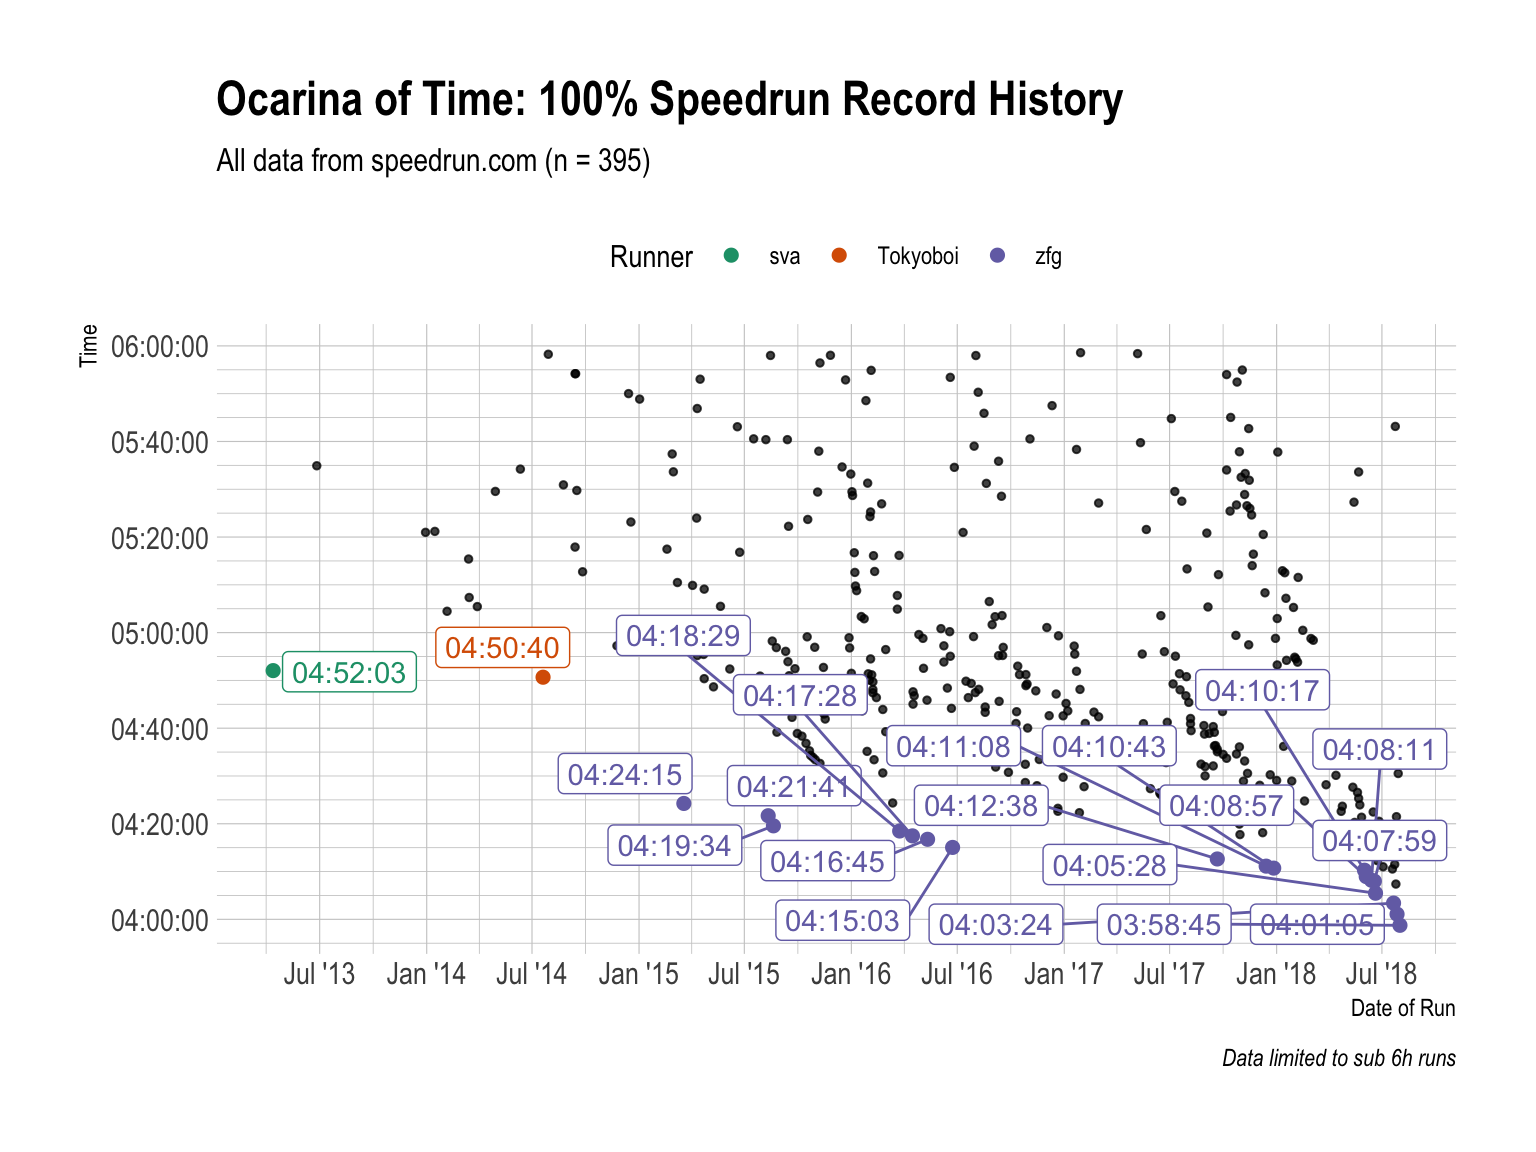
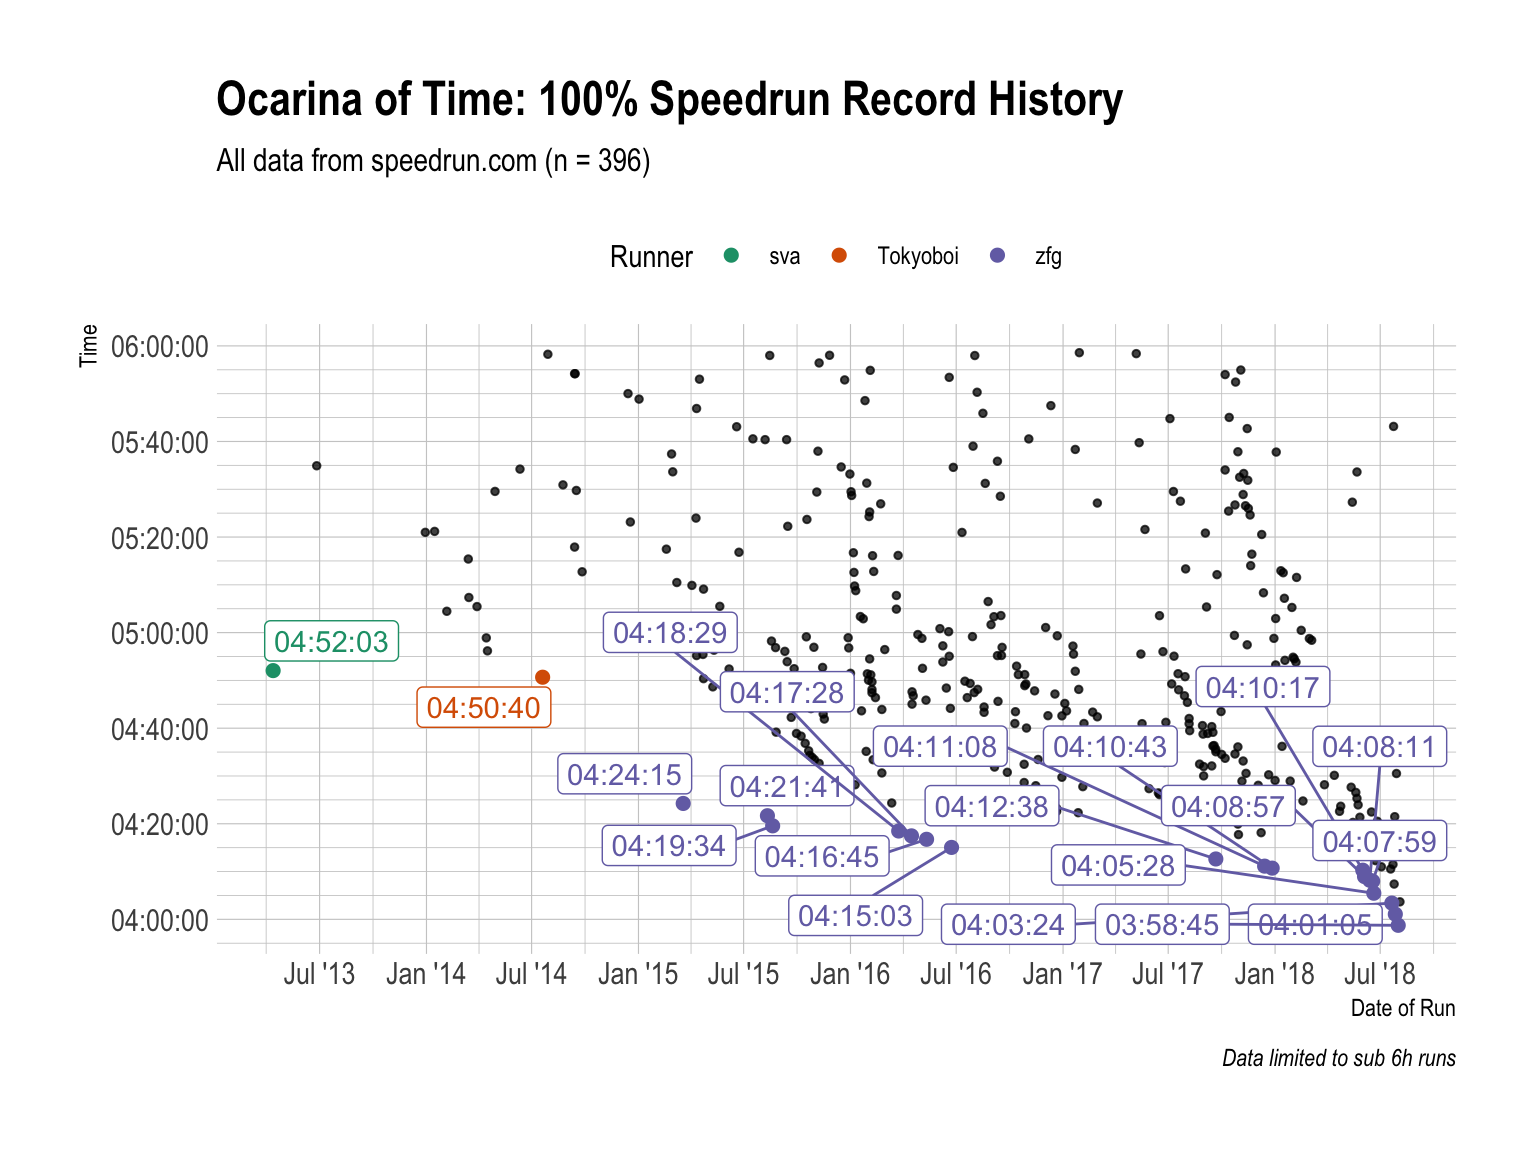
Rebuild everything

diff --git a/docs/articles/ocarina-of-time-100-.html b/docs/articles/ocarina-of-time-100-.html
@@ -82,7 +82,7 @@
       <h1>Ocarina of Time 100%</h1>
                         <h4 class="author">Lukas Burk</h4>
             
-            <h4 class="date">2018-08-02</h4>
+            <h4 class="date">2018-08-04</h4>
       
       <small class="dont-index">Source: <a href="https://github.com/jemus42/speedrunr/blob/master/vignettes/ocarina-of-time-100-.Rmd"><code>vignettes/ocarina-of-time-100-.Rmd</code></a></small>
       <div class="hidden name"><code>ocarina-of-time-100-.Rmd</code></div>
@@ -134,26 +134,26 @@
 <a class="sourceLine" id="cb3-4" data-line-number="4">oot100 &lt;-<span class="st"> </span><span class="kw"><a href="../reference/get_runs.html">get_runs</a></span>(<span class="dt">game =</span> <span class="st">"j1l9qz1g"</span>, <span class="dt">category =</span> <span class="st">"q255jw2o"</span>, <span class="dt">max =</span> <span class="ot">Inf</span>)</a></code></pre></div>
 <p>Note that I’m useing <code>max = Inf</code> to make sure I get <em>all</em> the runs.</p>
 <div class="sourceCode" id="cb4"><pre class="sourceCode r"><code class="sourceCode r"><a class="sourceLine" id="cb4-1" data-line-number="1"><span class="kw">str</span>(oot100)</a>
-<a class="sourceLine" id="cb4-2" data-line-number="2"><span class="co">#&gt; Classes 'tbl_df', 'tbl' and 'data.frame':    503 obs. of  22 variables:</span></a>
-<a class="sourceLine" id="cb4-3" data-line-number="3"><span class="co">#&gt;  $ id             : chr  "m3o52kwm" "y892o4dm" "zq3wddxy" "zg7we9jz" ...</span></a>
-<a class="sourceLine" id="cb4-4" data-line-number="4"><span class="co">#&gt;  $ weblink        : chr  "https://www.speedrun.com/oot/run/m3o52kwm" "https://www.speedrun.com/oot/run/y892o4dm" "https://www.speedrun.com/oot/run/zq3wddxy" "https://www.speedrun.com/oot/run/zg7we9jz" ...</span></a>
+<a class="sourceLine" id="cb4-2" data-line-number="2"><span class="co">#&gt; Classes 'tbl_df', 'tbl' and 'data.frame':    504 obs. of  22 variables:</span></a>
+<a class="sourceLine" id="cb4-3" data-line-number="3"><span class="co">#&gt;  $ id             : chr  "y2q5l35y" "m3o52kwm" "y892o4dm" "zq3wddxy" ...</span></a>
+<a class="sourceLine" id="cb4-4" data-line-number="4"><span class="co">#&gt;  $ weblink        : chr  "https://www.speedrun.com/oot/run/y2q5l35y" "https://www.speedrun.com/oot/run/m3o52kwm" "https://www.speedrun.com/oot/run/y892o4dm" "https://www.speedrun.com/oot/run/zq3wddxy" ...</span></a>
 <a class="sourceLine" id="cb4-5" data-line-number="5"><span class="co">#&gt;  $ game           : chr  "j1l9qz1g" "j1l9qz1g" "j1l9qz1g" "j1l9qz1g" ...</span></a>
 <a class="sourceLine" id="cb4-6" data-line-number="6"><span class="co">#&gt;  $ level          : logi  NA NA NA NA NA NA ...</span></a>
 <a class="sourceLine" id="cb4-7" data-line-number="7"><span class="co">#&gt;  $ category       : chr  "q255jw2o" "q255jw2o" "q255jw2o" "q255jw2o" ...</span></a>
-<a class="sourceLine" id="cb4-8" data-line-number="8"><span class="co">#&gt;  $ videos         : chr  "https://www.youtube.com/watch?v=N8vs_cCeekM" "https://youtu.be/tgb6vU3KAgE" "https://youtu.be/VFZh_V_zatU" "https://youtu.be/TpstTIj7y-A" ...</span></a>
+<a class="sourceLine" id="cb4-8" data-line-number="8"><span class="co">#&gt;  $ videos         : chr  "https://www.youtube.com/watch?v=KC5nDHK9ipY" "https://www.youtube.com/watch?v=N8vs_cCeekM" "https://youtu.be/tgb6vU3KAgE" "https://youtu.be/VFZh_V_zatU" ...</span></a>
 <a class="sourceLine" id="cb4-9" data-line-number="9"><span class="co">#&gt;  $ status         : chr  "verified" "verified" "verified" "verified" ...</span></a>
-<a class="sourceLine" id="cb4-10" data-line-number="10"><span class="co">#&gt;  $ comment        : chr  "1st try dampe" "6th dampe, decent fishing" "Second run on new equip dupe route, and I got pb twice in the day!" "This run was great until fishing, lost 2 minutes to fishing, got 3rd try Dampe, and then Adult 2 onward was a d"| __truncated__ ...</span></a>
-<a class="sourceLine" id="cb4-11" data-line-number="11"><span class="co">#&gt;  $ player_id      : chr  "e8e5v680" "zxz9r448" "68wq9z8g" "1xym2kmx" ...</span></a>
-<a class="sourceLine" id="cb4-12" data-line-number="12"><span class="co">#&gt;  $ player_url     : chr  "https://www.speedrun.com/user/zfg" "https://www.speedrun.com/user/Fig02" "https://www.speedrun.com/user/Cma" "https://www.speedrun.com/user/MasterMonk1991" ...</span></a>
-<a class="sourceLine" id="cb4-13" data-line-number="13"><span class="co">#&gt;  $ player_name    : chr  "zfg" "Fig02" "Cma" "MasterMonk1991" ...</span></a>
+<a class="sourceLine" id="cb4-10" data-line-number="10"><span class="co">#&gt;  $ comment        : chr  "Video footage was cut during KD's fight, I messed up with OBS while trying to stop my \"footage only\" recordin"| __truncated__ "1st try dampe" "6th dampe, decent fishing" "Second run on new equip dupe route, and I got pb twice in the day!" ...</span></a>
+<a class="sourceLine" id="cb4-11" data-line-number="11"><span class="co">#&gt;  $ player_id      : chr  "v819rrxp" "e8e5v680" "zxz9r448" "68wq9z8g" ...</span></a>
+<a class="sourceLine" id="cb4-12" data-line-number="12"><span class="co">#&gt;  $ player_url     : chr  "https://www.speedrun.com/user/Marco" "https://www.speedrun.com/user/zfg" "https://www.speedrun.com/user/Fig02" "https://www.speedrun.com/user/Cma" ...</span></a>
+<a class="sourceLine" id="cb4-13" data-line-number="13"><span class="co">#&gt;  $ player_name    : chr  "Marco" "zfg" "Fig02" "Cma" ...</span></a>
 <a class="sourceLine" id="cb4-14" data-line-number="14"><span class="co">#&gt;  $ player_role    : chr  "user" "user" "user" "user" ...</span></a>
-<a class="sourceLine" id="cb4-15" data-line-number="15"><span class="co">#&gt;  $ player_signup  : POSIXct, format: "2015-02-17 03:55:57" "2016-02-04 09:35:14" ...</span></a>
-<a class="sourceLine" id="cb4-16" data-line-number="16"><span class="co">#&gt;  $ date           : Date, format: "2018-08-01" "2018-07-31" ...</span></a>
-<a class="sourceLine" id="cb4-17" data-line-number="17"><span class="co">#&gt;  $ submitted      : POSIXct, format: "2018-08-02 02:15:56" "2018-08-01 04:07:29" ...</span></a>
-<a class="sourceLine" id="cb4-18" data-line-number="18"><span class="co">#&gt;  $ time_primary   : int  14325 15412 16231 15471 14465 15689 15586 14843 20589 15090 ...</span></a>
-<a class="sourceLine" id="cb4-19" data-line-number="19"><span class="co">#&gt;  $ time_realtime  : int  14325 15412 16231 15471 14465 15689 15586 14843 20589 15090 ...</span></a>
+<a class="sourceLine" id="cb4-15" data-line-number="15"><span class="co">#&gt;  $ player_signup  : POSIXct, format: "2015-02-17 18:25:39" "2015-02-17 03:55:57" ...</span></a>
+<a class="sourceLine" id="cb4-16" data-line-number="16"><span class="co">#&gt;  $ date           : Date, format: "2018-08-04" "2018-08-01" ...</span></a>
+<a class="sourceLine" id="cb4-17" data-line-number="17"><span class="co">#&gt;  $ submitted      : POSIXct, format: "2018-08-04 04:03:15" "2018-08-02 02:15:56" ...</span></a>
+<a class="sourceLine" id="cb4-18" data-line-number="18"><span class="co">#&gt;  $ time_primary   : int  14620 14325 15412 16231 15471 14465 15689 15586 14843 20589 ...</span></a>
+<a class="sourceLine" id="cb4-19" data-line-number="19"><span class="co">#&gt;  $ time_realtime  : int  14620 14325 15412 16231 15471 14465 15689 15586 14843 20589 ...</span></a>
 <a class="sourceLine" id="cb4-20" data-line-number="20"><span class="co">#&gt;  $ time_ingame    : int  0 0 0 0 0 0 0 0 0 0 ...</span></a>
-<a class="sourceLine" id="cb4-21" data-line-number="21"><span class="co">#&gt;  $ time_hms       : 'hms' num  03:58:45 04:16:52 04:30:31 04:17:51 ...</span></a>
+<a class="sourceLine" id="cb4-21" data-line-number="21"><span class="co">#&gt;  $ time_hms       : 'hms' num  04:03:40 03:58:45 04:16:52 04:30:31 ...</span></a>
 <a class="sourceLine" id="cb4-22" data-line-number="22"><span class="co">#&gt;   ..- attr(*, "units")= chr "secs"</span></a>
 <a class="sourceLine" id="cb4-23" data-line-number="23"><span class="co">#&gt;  $ system_platform: chr  "nzelreqp" "nzelreqp" "nzelreqp" "nzelreqp" ...</span></a>
 <a class="sourceLine" id="cb4-24" data-line-number="24"><span class="co">#&gt;  $ system_emulated: logi  FALSE FALSE FALSE FALSE FALSE FALSE ...</span></a>
@@ -203,51 +203,51 @@
 <td align="left">JPN / NTSC</td>
 </tr>
 <tr class="even">
+<td align="left">04:03:40</td>
+<td align="left">Marco</td>
+<td align="left">2018-08-04</td>
+<td align="left">Wii Virtual Console</td>
+<td align="left">JPN / NTSC</td>
+</tr>
+<tr class="odd">
 <td align="left">04:05:28</td>
 <td align="left">zfg</td>
 <td align="left">2018-06-20</td>
 <td align="left">Wii Virtual Console</td>
 <td align="left">JPN / NTSC</td>
 </tr>
-<tr class="odd">
+<tr class="even">
 <td align="left">04:07:23</td>
 <td align="left">Marco</td>
 <td align="left">2018-07-25</td>
 <td align="left">Wii Virtual Console</td>
 <td align="left">JPN / NTSC</td>
 </tr>
-<tr class="even">
+<tr class="odd">
 <td align="left">04:07:59</td>
 <td align="left">zfg</td>
 <td align="left">2018-06-18</td>
 <td align="left">Wii Virtual Console</td>
 <td align="left">JPN / NTSC</td>
 </tr>
-<tr class="odd">
+<tr class="even">
 <td align="left">04:08:11</td>
 <td align="left">zfg</td>
 <td align="left">2018-06-13</td>
 <td align="left">Wii Virtual Console</td>
 <td align="left">JPN / NTSC</td>
 </tr>
-<tr class="even">
+<tr class="odd">
 <td align="left">04:08:57</td>
 <td align="left">zfg</td>
 <td align="left">2018-06-04</td>
 <td align="left">Wii Virtual Console</td>
 <td align="left">JPN / NTSC</td>
 </tr>
-<tr class="odd">
+<tr class="even">
 <td align="left">04:10:17</td>
 <td align="left">zfg</td>
 <td align="left">2018-06-01</td>
-<td align="left">Wii Virtual Console</td>
-<td align="left">JPN / NTSC</td>
-</tr>
-<tr class="even">
-<td align="left">04:10:32</td>
-<td align="left">Marco</td>
-<td align="left">2018-07-19</td>
 <td align="left">Wii Virtual Console</td>
 <td align="left">JPN / NTSC</td>
 </tr>

diff --git a/docs/index.html b/docs/index.html
@@ -345,89 +345,89 @@ Let’s get started:</p>
 <td align="left"><a href="https://www.speedrun.com/user/zfg" class="uri">https://www.speedrun.com/user/zfg</a></td>
 </tr>
 <tr class="even">
+<td align="left">2018-08-04 04:03:15</td>
+<td align="left">04:03:40</td>
+<td align="left"><a href="https://www.speedrun.com/user/Marco" class="uri">https://www.speedrun.com/user/Marco</a></td>
+</tr>
+<tr class="odd">
 <td align="left">2018-06-21 02:28:51</td>
 <td align="left">04:05:28</td>
 <td align="left"><a href="https://www.speedrun.com/user/zfg" class="uri">https://www.speedrun.com/user/zfg</a></td>
 </tr>
-<tr class="odd">
+<tr class="even">
 <td align="left">2018-07-25 04:07:52</td>
 <td align="left">04:07:23</td>
 <td align="left"><a href="https://www.speedrun.com/user/Marco" class="uri">https://www.speedrun.com/user/Marco</a></td>
 </tr>
-<tr class="even">
+<tr class="odd">
 <td align="left">2018-06-19 05:20:57</td>
 <td align="left">04:07:59</td>
 <td align="left"><a href="https://www.speedrun.com/user/zfg" class="uri">https://www.speedrun.com/user/zfg</a></td>
 </tr>
-<tr class="odd">
+<tr class="even">
 <td align="left">2018-06-14 04:01:53</td>
 <td align="left">04:08:11</td>
 <td align="left"><a href="https://www.speedrun.com/user/zfg" class="uri">https://www.speedrun.com/user/zfg</a></td>
 </tr>
-<tr class="even">
+<tr class="odd">
 <td align="left">2018-06-05 03:41:59</td>
 <td align="left">04:08:57</td>
 <td align="left"><a href="https://www.speedrun.com/user/zfg" class="uri">https://www.speedrun.com/user/zfg</a></td>
 </tr>
-<tr class="odd">
+<tr class="even">
 <td align="left">2018-06-02 03:35:41</td>
 <td align="left">04:10:17</td>
 <td align="left"><a href="https://www.speedrun.com/user/zfg" class="uri">https://www.speedrun.com/user/zfg</a></td>
 </tr>
-<tr class="even">
+<tr class="odd">
 <td align="left">2018-07-20 01:17:13</td>
 <td align="left">04:10:32</td>
 <td align="left"><a href="https://www.speedrun.com/user/Marco" class="uri">https://www.speedrun.com/user/Marco</a></td>
 </tr>
-<tr class="odd">
+<tr class="even">
 <td align="left">2017-12-28 02:05:48</td>
 <td align="left">04:10:43</td>
 <td align="left"><a href="https://www.speedrun.com/user/zfg" class="uri">https://www.speedrun.com/user/zfg</a></td>
 </tr>
-<tr class="even">
+<tr class="odd">
 <td align="left">2018-07-03 02:09:52</td>
 <td align="left">04:11:00</td>
 <td align="left"><a href="https://www.speedrun.com/user/Marco" class="uri">https://www.speedrun.com/user/Marco</a></td>
 </tr>
-<tr class="odd">
+<tr class="even">
 <td align="left">2017-12-14 04:12:51</td>
 <td align="left">04:11:08</td>
 <td align="left"><a href="https://www.speedrun.com/user/zfg" class="uri">https://www.speedrun.com/user/zfg</a></td>
 </tr>
-<tr class="even">
+<tr class="odd">
 <td align="left">2018-07-23 02:36:34</td>
 <td align="left">04:11:30</td>
 <td align="left"><a href="https://www.speedrun.com/user/Bonooru" class="uri">https://www.speedrun.com/user/Bonooru</a></td>
 </tr>
-<tr class="odd">
+<tr class="even">
 <td align="left">2018-06-23 02:17:28</td>
 <td align="left">04:12:17</td>
 <td align="left"><a href="https://www.speedrun.com/user/Marco" class="uri">https://www.speedrun.com/user/Marco</a></td>
 </tr>
-<tr class="even">
+<tr class="odd">
 <td align="left">2018-07-19 23:30:26</td>
 <td align="left">04:15:17</td>
 <td align="left"><a href="https://www.speedrun.com/user/Bonooru" class="uri">https://www.speedrun.com/user/Bonooru</a></td>
 </tr>
-<tr class="odd">
+<tr class="even">
 <td align="left">2018-06-16 04:07:34</td>
 <td align="left">04:15:50</td>
 <td align="left"><a href="https://www.speedrun.com/user/Marco" class="uri">https://www.speedrun.com/user/Marco</a></td>
 </tr>
-<tr class="even">
+<tr class="odd">
 <td align="left">2018-08-01 04:07:29</td>
 <td align="left">04:16:52</td>
 <td align="left"><a href="https://www.speedrun.com/user/Fig02" class="uri">https://www.speedrun.com/user/Fig02</a></td>
 </tr>
-<tr class="odd">
+<tr class="even">
 <td align="left">2018-07-23 01:22:52</td>
 <td align="left">04:17:27</td>
 <td align="left"><a href="https://www.speedrun.com/user/dannyb21892" class="uri">https://www.speedrun.com/user/dannyb21892</a></td>
-</tr>
-<tr class="even">
-<td align="left">2018-07-29 23:49:50</td>
-<td align="left">04:17:51</td>
-<td align="left"><a href="https://www.speedrun.com/user/MasterMonk1991" class="uri">https://www.speedrun.com/user/MasterMonk1991</a></td>
 </tr>
 </tbody>
 </table>
@@ -535,29 +535,29 @@ Let’s get started:</p>
 </tr></thead>
 <tbody>
 <tr class="odd">
-<td align="right">15137</td>
+<td align="right">15714</td>
 <td align="left">JPN / NTSC</td>
 <td align="left">Wii Virtual Console</td>
 </tr>
 <tr class="even">
-<td align="right">18693</td>
+<td align="right">23467</td>
 <td align="left">JPN / NTSC</td>
 <td align="left">Nintendo 64</td>
 </tr>
 <tr class="odd">
-<td align="right">15886</td>
+<td align="right">15471</td>
 <td align="left">JPN / NTSC</td>
 <td align="left">Wii Virtual Console</td>
 </tr>
 <tr class="even">
-<td align="right">21825</td>
+<td align="right">16388</td>
 <td align="left">JPN / NTSC</td>
-<td align="left">Wii Virtual Console</td>
+<td align="left">Nintendo 64</td>
 </tr>
 <tr class="odd">
-<td align="right">18431</td>
+<td align="right">18177</td>
 <td align="left">JPN / NTSC</td>
-<td align="left">Wii Virtual Console</td>
+<td align="left">Nintendo 64</td>
 </tr>
 </tbody>
 </table>
